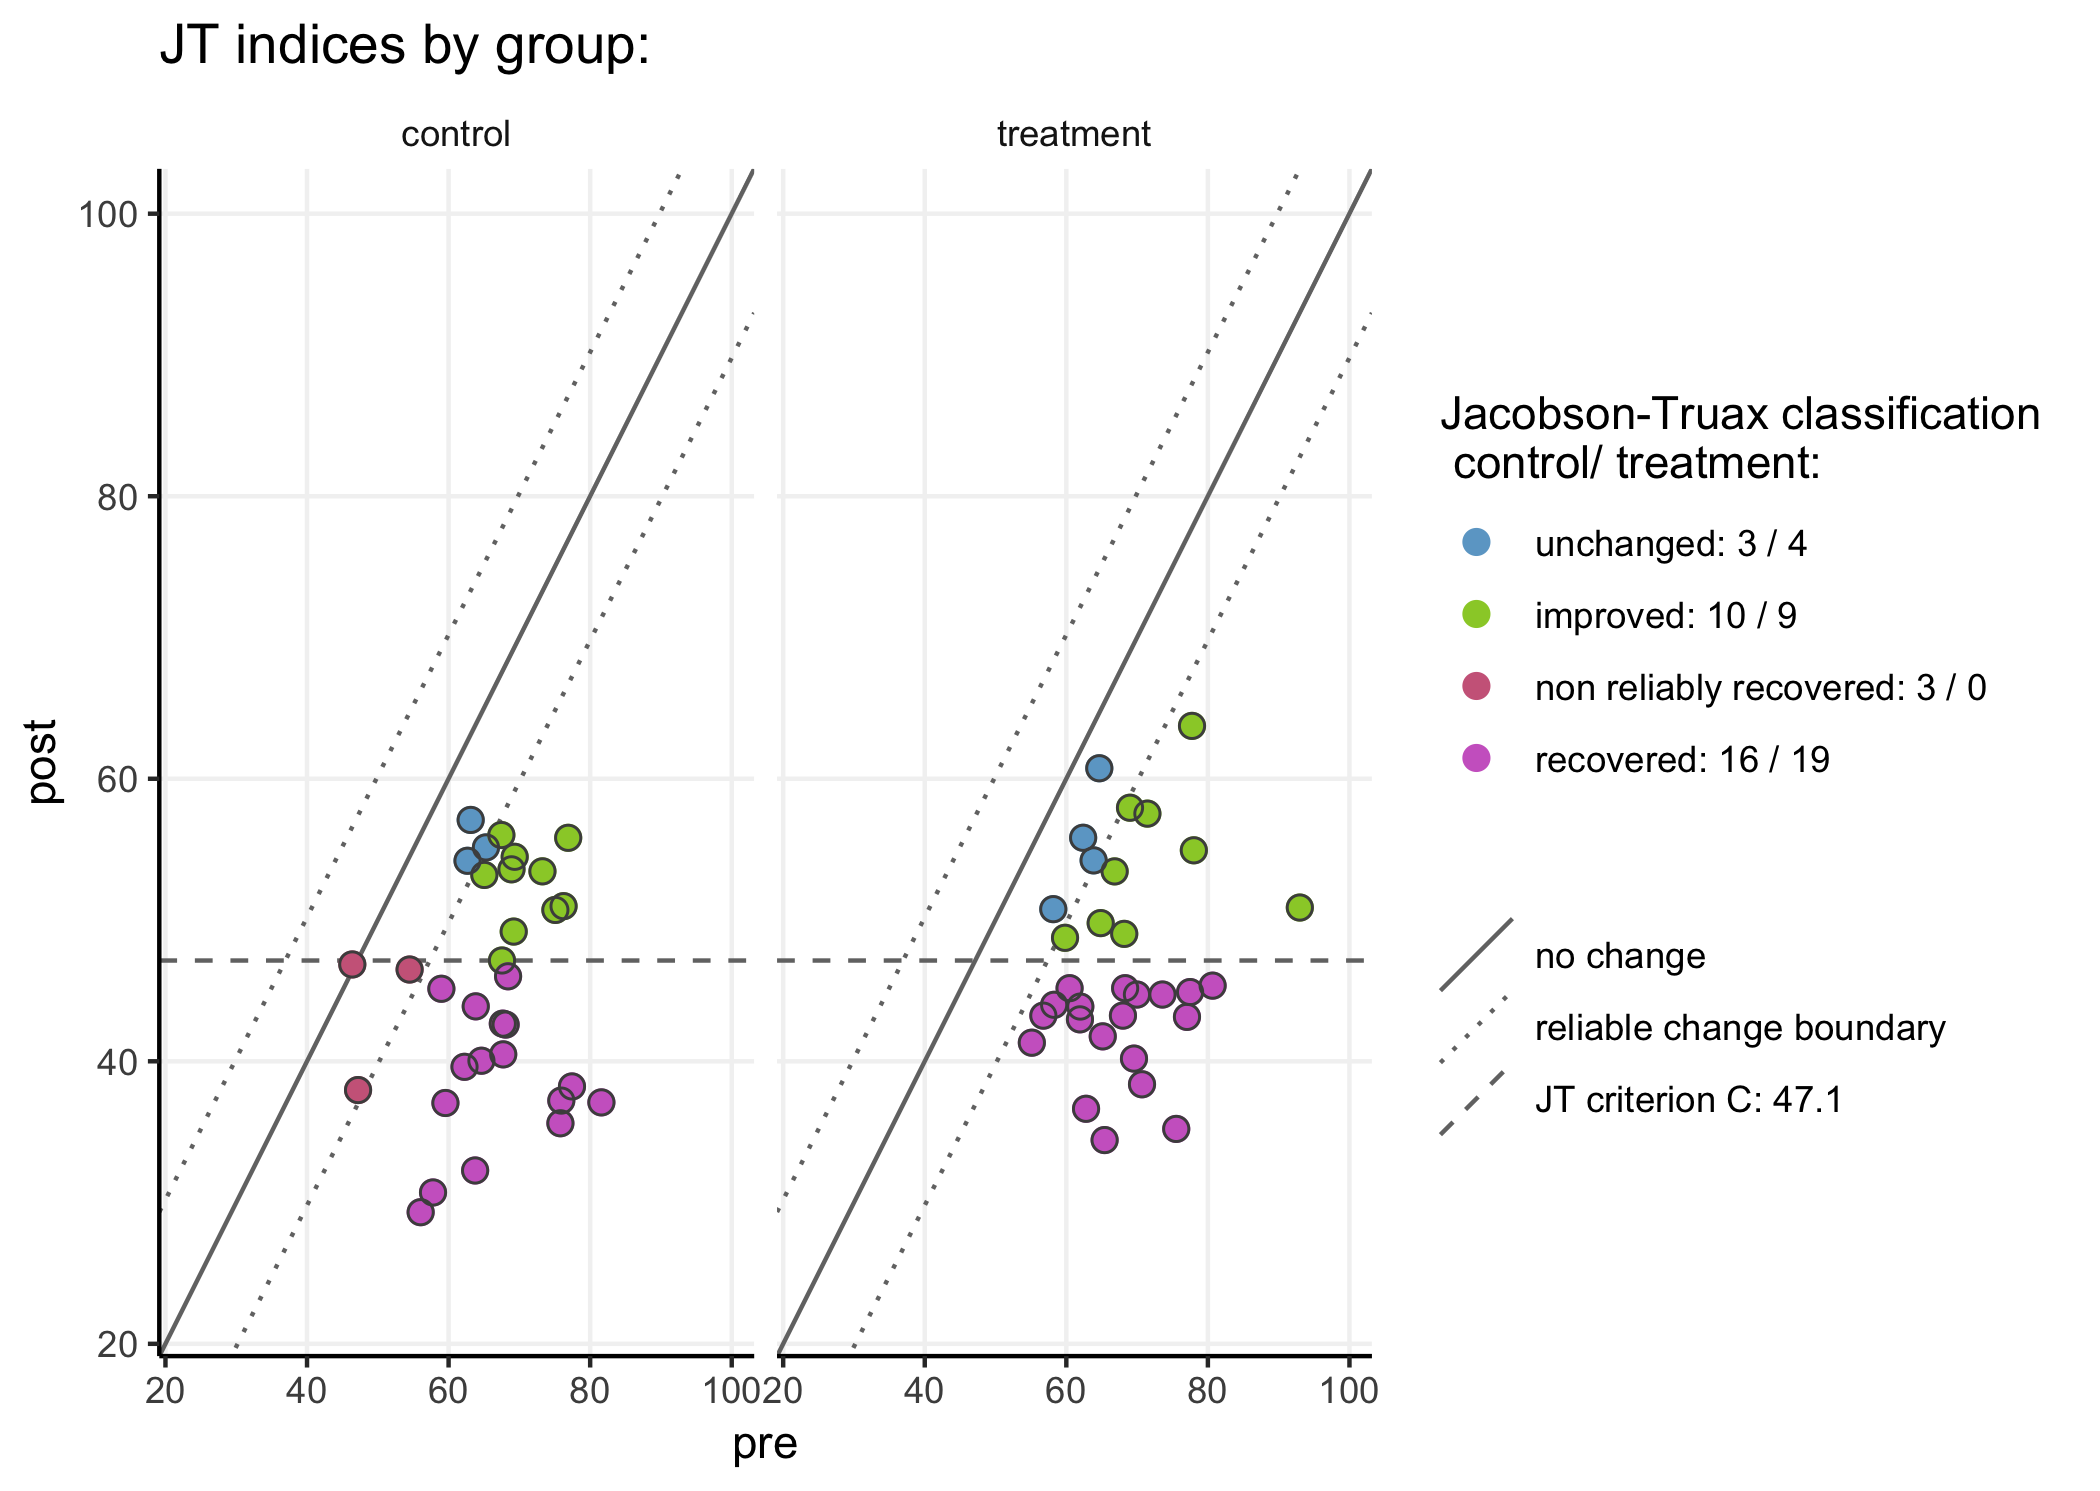
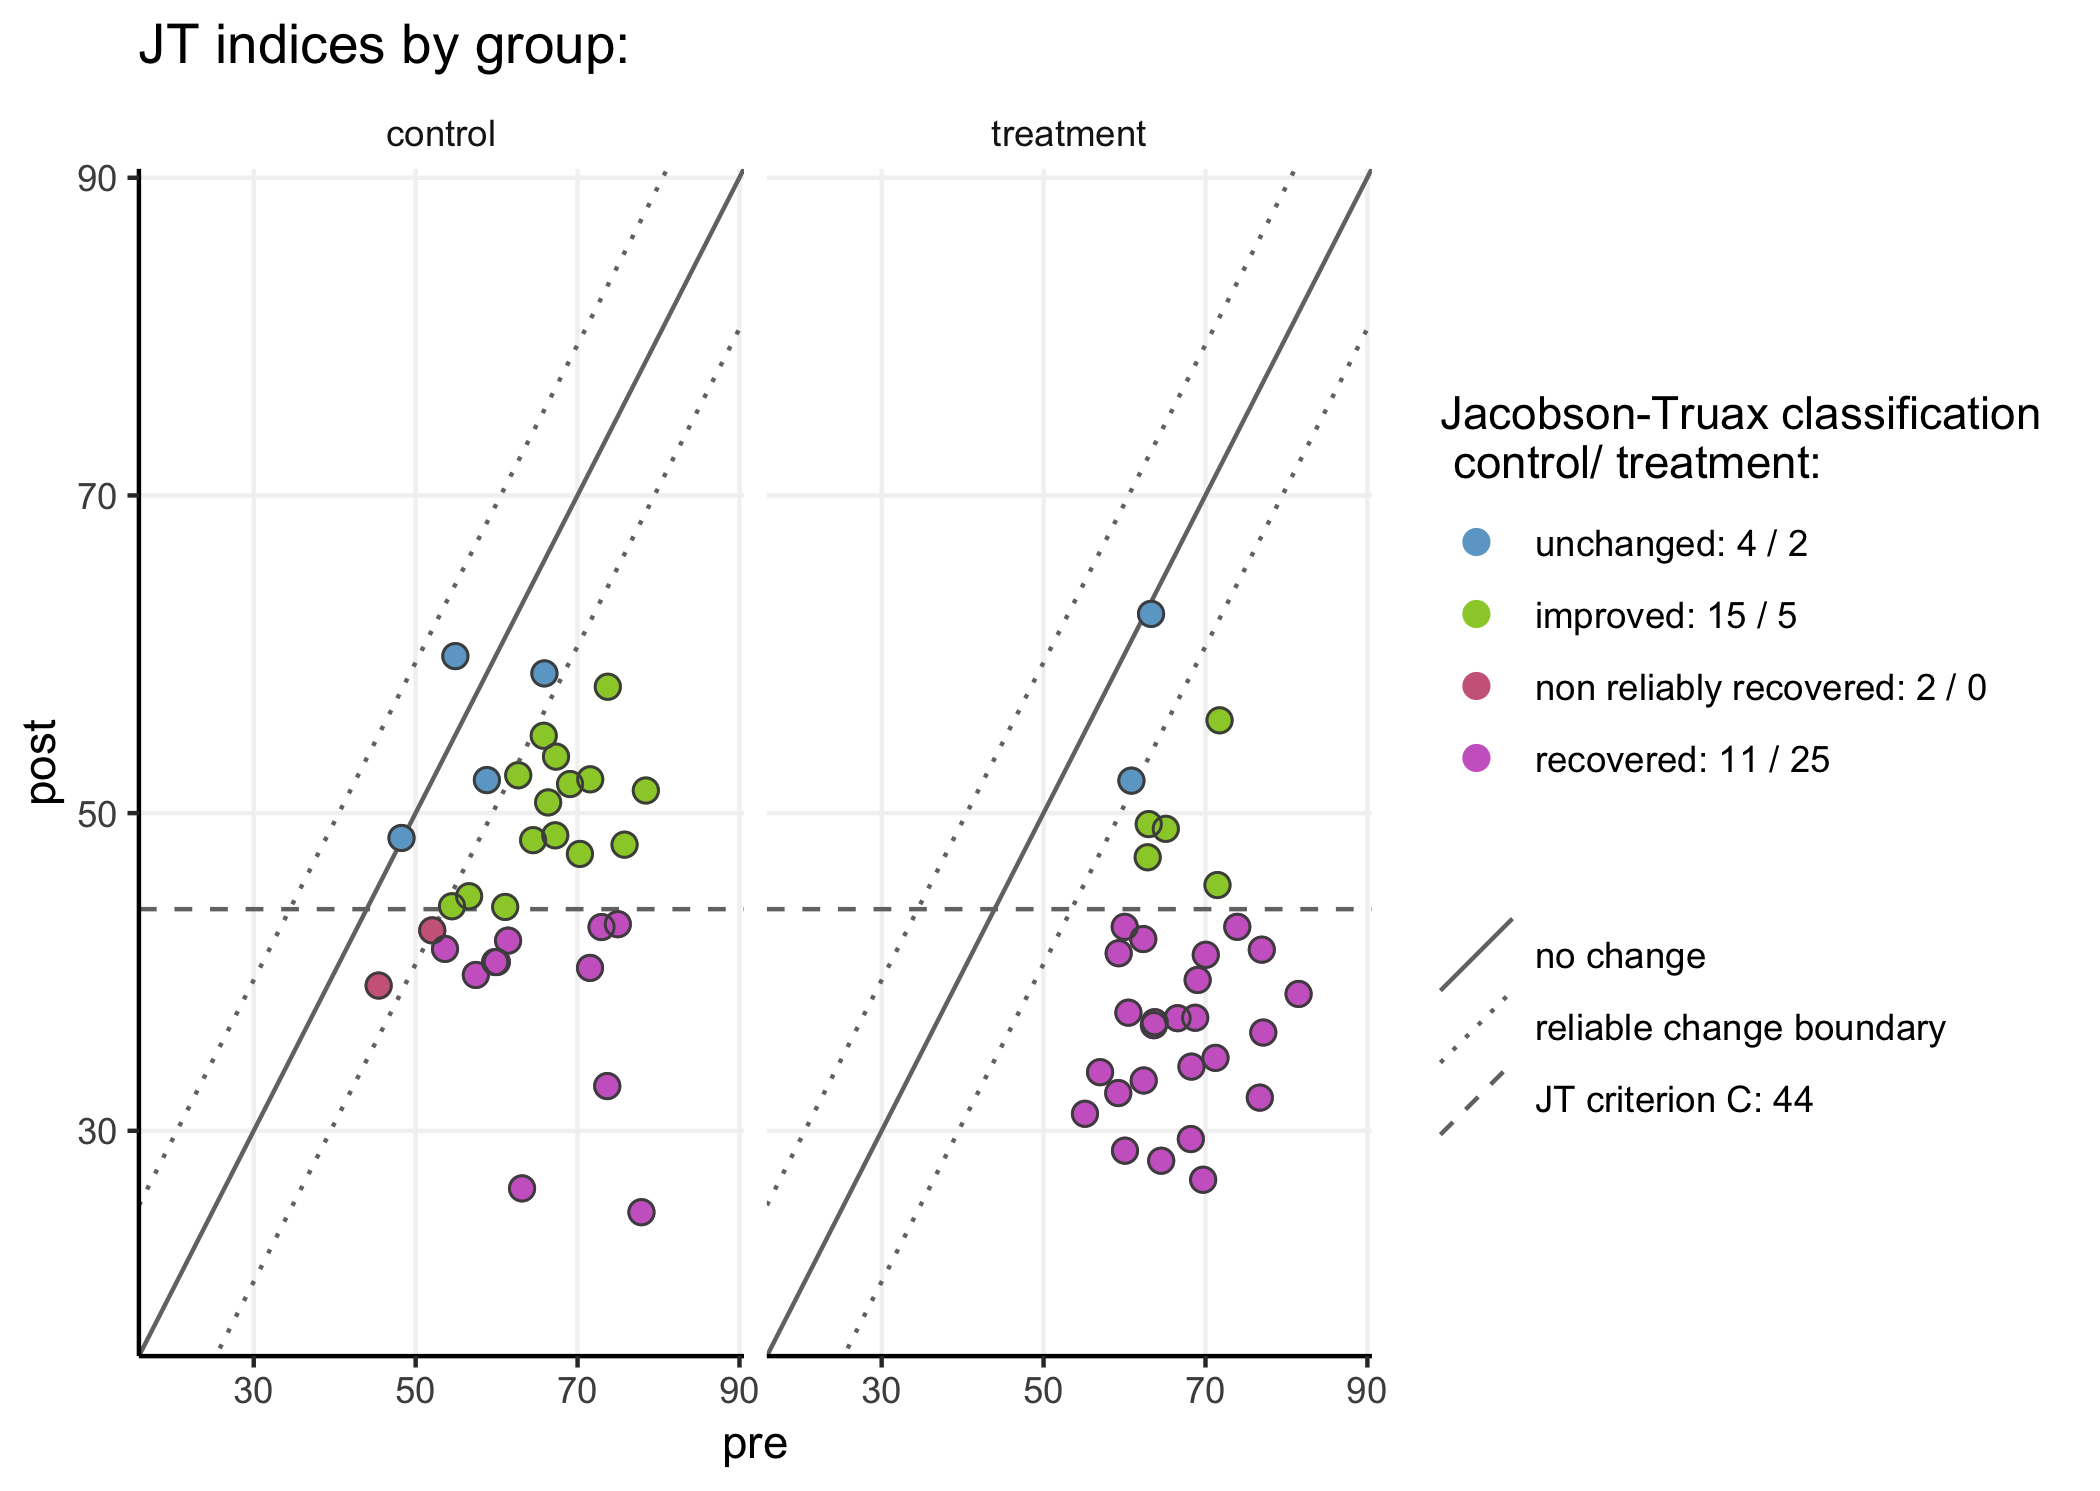
further tweaks, things like changing default plot options etc.

diff --git a/README.md b/README.md
@@ -11,7 +11,7 @@ table 2 by Jacobson & Truax
 
 *notice that this is a ‘higher is better’ measure*
 
------
+## 
 
 to install JTRCI, first install package devtools from CRAN - either
 through the ‘install packages’ interface (in for instance Rstudio) or
@@ -29,15 +29,15 @@ devtools::install_github("AWKruijt/JT-RCI")
 library(JTRCI)
 ```
 
------
+# 
 
 JRTCI() is the main function in this package:
 
-JTRCI (data = NA, pre = NA, post = NA, ppid = NA, group = NA,  
-            reliability = NA, higherIsBetter = F, indextype = “JT”,
+   JTRCI (data = NA, pre = NA, post = NA, ppid = NA, group = NA,  
+               reliability = NA, higherIsBetter = F, indextype = “JT”,
 JTcrit = “auto”,  
-            normM = NA, normSD = NA, dysfM = NA, dysfSD = NA,  
-            plot = T, table = T, …)
+               normM = NA, normSD = NA, dysfM = NA, dysfSD = NA,  
+               plot = T, table = T, …)
 
 It requires data in wide format (one row per individual) and an estimate
 of the measure reliability to be given through parameter ‘reliability
@@ -57,6 +57,23 @@ various choices a researcher has to make when applying the
 Jacobson-Truax method. It is recommended to pay attention to the various
 output messages.
 
+# 
+
+When plot = T (default), the JTRCI() function will call on either the
+JTplot() or RCIplot().
+
+The JTplot()/RCIplot() functions take the following parameters:
+
+   plotJT(data = JTRCIdf, useGroups = F, facetplot = F, addJitter = F,  
+             xlab = “pre”, ylab = “post”, plottitle = “Jacobson-Truax
+plot”,  
+             addInfoLegend = c(“yes”, “classcounts”, “JTcrit”, “no”))
+
+These parameters can also be passed directly into a call on JTRCI() (see
+examples below)
+
+# 
+
 An online dashboard using essentially the same code is available at:
 <https://awkruijt.shinyapps.io/JTRCI_dashboard/> It allows the user to
 upload their own data (as a .csv file) or to test things using
@@ -67,14 +84,16 @@ An example of a more advanced plot (with multiple follow-ups) based on
 the JTRCI-outputs can be found here:
 <https://awkruijt.netlify.com/plotposts/longitudinaljtrci>
 
+# 
+
 #### examples:
 
 ``` r
 # generate some random data:
 df <- cbind.data.frame("ppid" = seq(1:64), 
                        "pre" = rnorm(64, 65, 8), 
-                       "post" = rnorm(64, 45, 8), 
-                       "group" = rep(c("treatment", "control"), 32))
+                       "post" = c(rnorm(32, 40, 8), rnorm(32, 45, 8)),
+                       "group" = rep(c("treatment", "control"), each = 32))
 ```
 
 Obtain and plot Jacobson-Truax indices using parameter JTcrit =
@@ -101,7 +120,7 @@ JTRCI(data = df,
     ## NB: using the sample baseline distribution to characterize the dysfunctional population. 
     ##     to change: provide norms for dysfunctional population using 'dysfM =' and 'dysfSD ='
 
-    ## Jacobson-Truax criterion A: 50.6
+    ## Jacobson-Truax criterion A: 50
 
     ##  this value represents two sd from the baseline total sample mean
 
@@ -109,10 +128,10 @@ JTRCI(data = df,
     ##  interpret their Jacobson-Truax classification with caution
 
     ##    Jacobson Truax classification  N
-    ## 1:                     unchanged  7
-    ## 2:                      improved 14
+    ## 1:                     unchanged  5
+    ## 2:                      improved  9
     ## 3:        non reliably recovered  3
-    ## 4:                     recovered 40
+    ## 4:                     recovered 47
 
 <img src="README_files/figure-gfm/unnamed-chunk-8-1.png" height="450px" />
 
@@ -134,7 +153,7 @@ plot\_RCI():
 ``` r
 # plot the reliable change indices obtained in the previous chunk - set x y and plot labels:
 
-plot_RCI(xlab = "score pre", ylab = "score post", plottitle = "my reliable change plot")
+plotRCI(xlab = "score pre", ylab = "score post", plottitle = "my reliable change plot")
 ```
 
 <img src="README_files/figure-gfm/unnamed-chunk-10-1.png" height="450px" />
@@ -144,11 +163,12 @@ directly in the JTRCI() function:
 
 ``` r
 # obtain and plot Jacobson-Truax indices using criterion B. 
+# add jittering of the points with addJitter = T
 
 JTRCI(data = df, pre = "pre", post = "post",  group = "group", ppid = "ppid",
       reliability = .8, indextype = "JT", JTcrit = "B",
-      normM = 35, normSD = 5, 
-      useGroups = T, plottitle = "JT indices (crit B):")
+      normM = 30, normSD = 5, 
+      useGroups = T, addJitter = T, plottitle = "JT indices (crit B):")
 ```
 
     ## Assumed that lower scores are better (and reduction == improvement),
@@ -159,43 +179,70 @@ JTRCI(data = df, pre = "pre", post = "post",  group = "group", ppid = "ppid",
 
     ## NB criterion C is recommended when the baseline distribution overlaps with the norm distribution
 
-    ## Jacobson-Truax criterion B: 45
+    ## Jacobson-Truax criterion B: 40
 
     ##  this value represents two sd from the functional/healthy population norm mean
 
     ##    Jacobson Truax classification  N
-    ## 1:                     unchanged  9
-    ## 2:                      improved 24
+    ## 1:                     unchanged  7
+    ## 2:                      improved 33
     ## 3:        non reliably recovered  1
-    ## 4:                     recovered 30
+    ## 4:                     recovered 23
 
 <img src="README_files/figure-gfm/unnamed-chunk-11-1.png" height="450px" />
 
 ``` r
 # obtain Jacobson-Truax indices using criterion C.
-# plot with parameter facetplot = T
+# plot with parameter facetplot = T - the plot function can handle up to 5 groups
 
 JTRCI(data = df, pre = "pre", post = "post",  group = "group", ppid = "ppid",
       reliability = .8, indextype = "JT", JTcrit = "C",
-       normM = 35, normSD = 5, dysfM = 60, dysfSD = 5, 
-      facetplot = T, addJitter = F, plottitle = "JT indices by group:")
+       normM = 30, normSD = 5, dysfM = 60, dysfSD = 5, 
+      facetplot = T, plottitle = "JT indices by group:")
 ```
 
     ## Assumed that lower scores are better (and reduction == improvement),
     ##  if that is incorrect: set higherIsBetter = T
 
-    ## Jacobson-Truax criterion C:47.1
+    ## Jacobson-Truax criterion C:44
 
     ##  this value represents the weighted midpoint between the dysfunctional and functional norm mean, 
     ##  i.e. the value at which an individual is equally likely to belong to the functional as to the dysfunctional population
 
-    ## 1 participants scored below the Jacobson-Truax cut-off score at the pre-measurement 
-    ##  interpret their Jacobson-Truax classification with caution
-
     ##    Jacobson Truax classification  N
-    ## 1:                     unchanged  7
-    ## 2:                      improved 19
-    ## 3:        non reliably recovered  3
-    ## 4:                     recovered 35
+    ## 1:                     unchanged  6
+    ## 2:                      improved 20
+    ## 3:        non reliably recovered  2
+    ## 4:                     recovered 36
 
 <img src="README_files/figure-gfm/unnamed-chunk-12-1.png" height="450px" />
+
+It is important to note that when assessing/plotting Jacobson-Truax
+indices for multiple groups, the function combines the groups into one
+group for the calculations of the RCI (when using baseline
+characteristics as the ’dysfunctional distribution), or uses one single
+set of inputs dysfM and dysfSD as characteristic of the dysfunctional
+population. I.e. it assumes that the participants all originate from the
+same (sub)population and were randomly assigned to the different
+groups/conditions.
+
+Generally speaking (regardless of whether there are multiple
+conditions), Jacobson-Truax indices are designed for use with
+participants selected so that they would be expected to score high (or
+low in case of a higher-is-better measure) on the measure assessed. For
+a control group in which most/all participants score already within the
+‘functional’ (norm) range the traditional Jacobson-Truax
+classification labels make little sense: i.e. someone who scored in the
+healthy range at both the pre- and the post-assessment would be
+classified as ‘recovered’ without an actual recovering happening. The
+more ‘simple’ reliable change indices can be used for comparison of
+groups preselected to (likely) differ at baseline on the measure
+assessed.
+
+I’ve also taken the liberty of adding a new label to the Jacobson-Truax
+classification to indicate a sequence of events seen in the data that
+this code was originally developed for: participants who dropped below
+the JT-criterion at post, but did not actually show a pre-post change
+sufficiently large to be classified as reliable change (i.e. they scored
+already close to the JT-criterion value at basline). Such participants
+are labeled ‘non-reliably recovered’.
